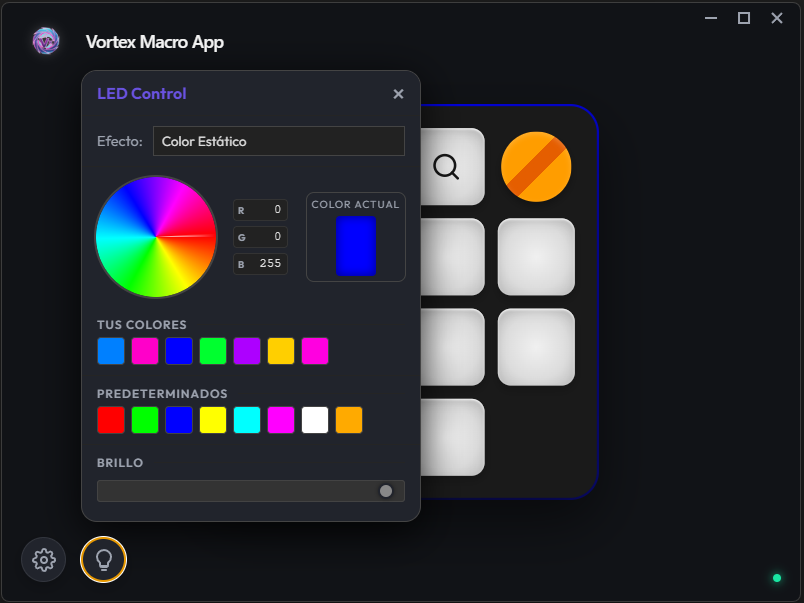
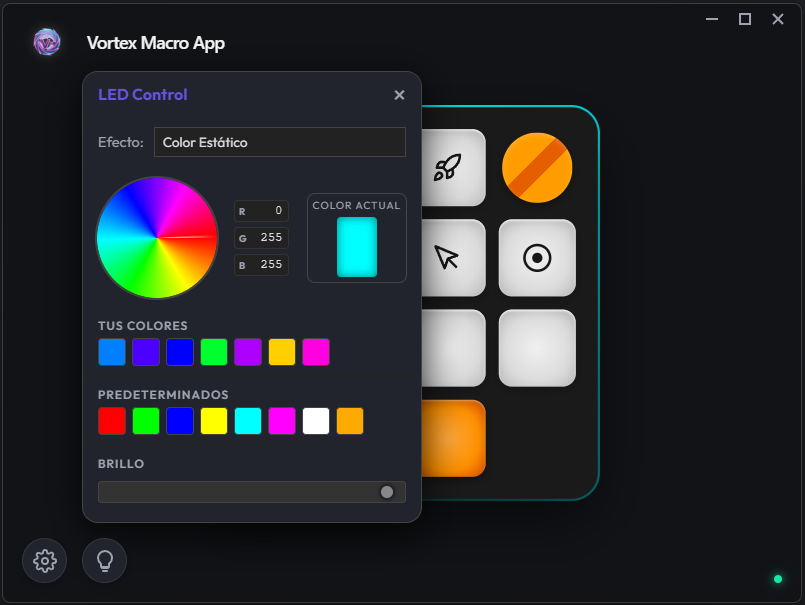
Ui little buyg fixed

diff --git a/src/main/main.js b/src/main/main.js
@@ -320,31 +320,33 @@ if (!gotTheLock) {
                 const speed = 0.05; // Ajustar velocidad
                 const t = (Math.sin(animationTick * speed) + 1) / 2;
 
-                // Min brightness 10%, Max 100% (or user brightness)
-                const userBrightness = (data.brightness !== undefined) ? data.brightness : 100;
-                const minB = 0.1;
-                const maxB = 1.0;
+                step += 0.08; // Faster increment for ~1.5s cycle (2PI / 0.08 * 20ms ~= 1.5s)
 
-                // Effective Scale
-                const breathScale = (minB + (maxB - minB) * t) * (userBrightness / 100);
+                // Calculate brightness using Sine wave (0 to 1)
+                // (Math.sin(step) + 1) / 2 ranges from 0 to 1
+                // We want range 0.1 to 1.0 (min brightness 10%)
+                const wave = (Math.sin(step) + 1) / 2;
+                const currentScale = 0.1 + (wave * 0.9);
 
-                let r = 0, g = 0, b = 0;
-                if (data.color) {
-                    r = parseInt(data.color.substr(1, 2), 16);
-                    g = parseInt(data.color.substr(3, 2), 16);
-                    b = parseInt(data.color.substr(5, 2), 16);
+                // Apply scale to base colors
+                const br = Math.floor(sr * currentScale);
+                const bg = Math.floor(sg * currentScale);
+                const bb = Math.floor(sb * currentScale);
+
+                // Send Static Color Command (0x01)
+                try {
+                    // Check if HID is available? For now we assume yes or it throws/catches
+                    // Using writeBatch or direct write? processLedUpdate logic above used writeBatch
+                    // But here we are inside the loop. let's re-use writeBatch
+                    const packet = [0x01, br, bg, bb];
+                    writeBatch([packet]);
+                } catch (err) {
+                    console.error('Animation Error:', err);
+                    clearInterval(animationInterval);
                 }
-
-                const sr = Math.floor(r * breathScale);
-                const sg = Math.floor(g * breathScale);
-                const sb = Math.floor(b * breathScale);
-
-                // Send Static Color (0x01)
-                // This forces firmware to Mode 1 (Static) and sets color
-                writeBatch([[0x01, sr, sg, sb]]);
             }
 
-        }, intervalMs);
+        }, 20); // 20ms = 50fps for smoothness
     };
 
     const processLedUpdate = async (data) => {

diff --git a/src/renderer/index.html b/src/renderer/index.html
@@ -95,8 +95,8 @@
                     <!-- Row 4 -->
                     <!-- Empty Spacer -->
                     <div class="key-spacer"></div>
-                    <div class="key-btn variant-orange" data-key="F23"></div>
-                    <div class="key-btn variant-white" data-key="F24"></div>
+                    <div class="key-btn variant-white" data-key="F23"></div>
+                    <div class="key-btn variant-orange" data-key="F24"></div>
                     <div class="key-spacer"></div>
                 </div>
             </div>

diff --git a/src/renderer/styles.css b/src/renderer/styles.css
@@ -1178,7 +1178,7 @@ input:checked+.slider:before {
 }
 
 .key-btn.anim-breathing {
-    animation: breathing-effect 3s ease-in-out infinite;
+    animation: breathing-effect 1.5s ease-in-out infinite;
 }
 
 /* Rainbow Effect */
